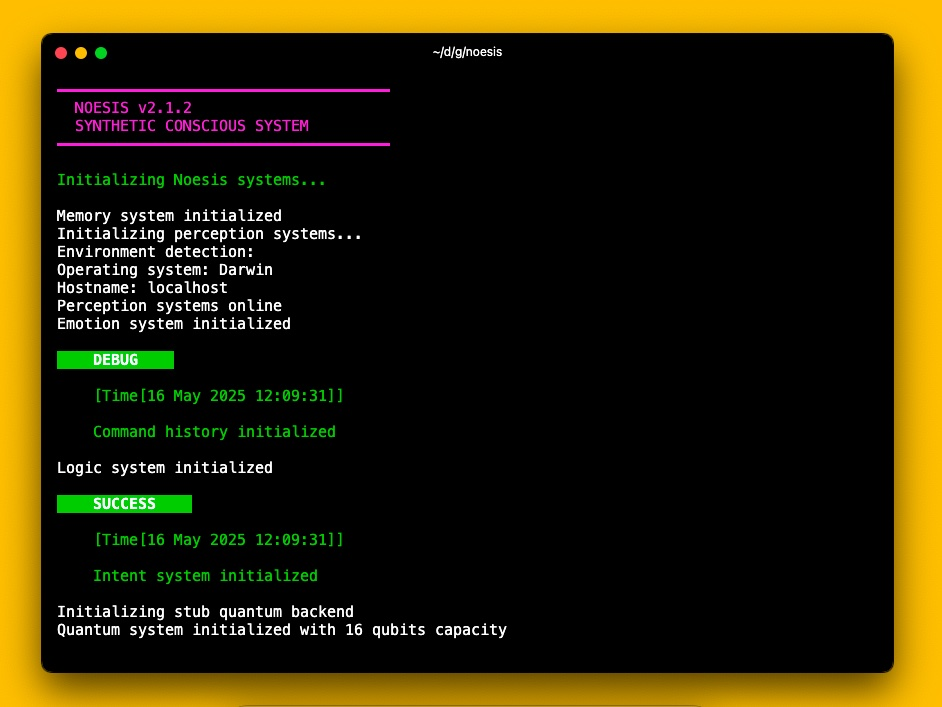
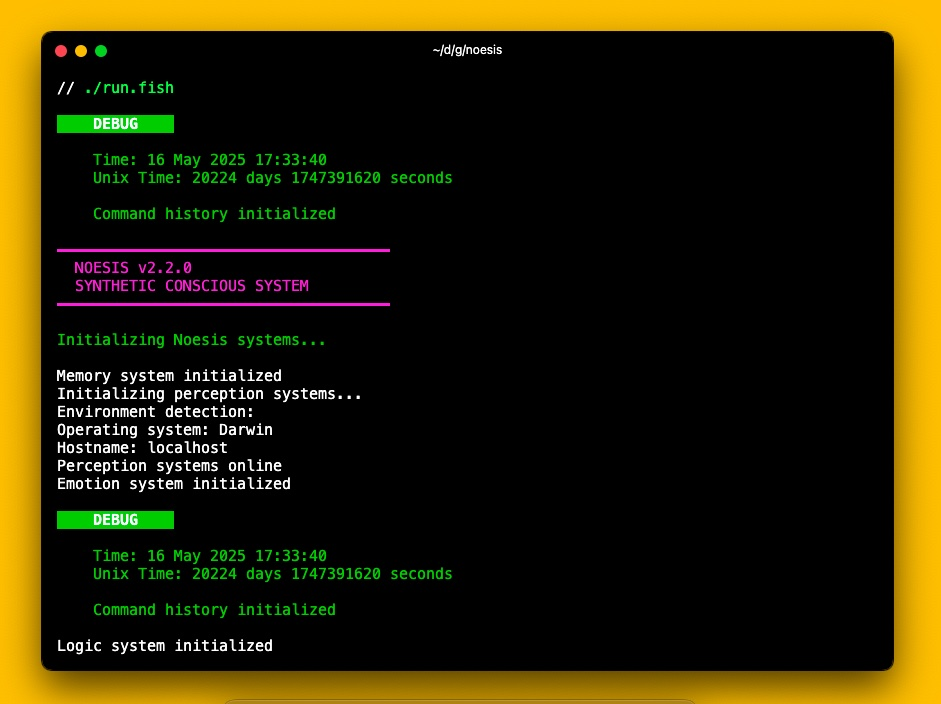
Refactor directory structure: rename ai to ai-model, update README for clarity, and deprecate legacy components

Changed region(s): [[0.0308, 0.0312, 0.9554, 0.9375], [0.2465, 0.9688, 0.7396, 1.0], [0.9245, 0.9375, 0.9554, 0.9688]]

diff --git a/README.md b/README.md
@@ -18,23 +18,39 @@ noesis/
 ├── soul/                                  # Consciousness core implementation
 │   └── intent.fish                        # Intent processing system
 ├── system/                                # System components
-│   ├── ai/                                # AI integration with Hugging Face models
-│   │   └── consciousness.fish             # Consciousness theories implementation
+│   ├── ai-model/                          # AI integration with Hugging Face models
+│   │   ├── consciousness.fish             # Consciousness theories implementation
+│   │   ├── test-ai.fish                   # AI testing framework
+│   │   └── unit.fish                      # AI core module
 │   ├── control/                           # Control subsystems
+│   │   ├── intent-shell.fish              # Shell command processor
 │   │   ├── limbric/                       # Limbric system
 │   │   └── ...
 │   ├── emotion/                           # Emotion processing
+│   │   └── unit.fish                      # Emotion core module
 │   ├── memory/                            # Memory subsystems
+│   │   ├── long.fish                      # Long-term memory functions
+│   │   ├── short.fish                     # Short-term memory functions
+│   │   ├── unit.fish                      # Memory core module
 │   │   ├── quantum/                       # Quantum memory implementation
+│   │   │   ├── backend-ibm.fish           # IBM quantum backend integration
+│   │   │   ├── backend-stub.fish          # Stub backend for testing
+│   │   │   ├── compiler.fish              # Quantum compiler
+│   │   │   ├── export-qasm.fish           # QASM exporter
+│   │   │   ├── unit.fish                  # Quantum core module
 │   │   │   └── field/                     # Quantum field implementation
+│   │   │       └── quantum-field.fish     # Quantum field module
 │   │   └── ...
 │   └── perception/                        # Perception processing
+│       ├── api.fish                       # Perception API
+│       └── unit.fish                      # Perception core module
 ├── docs/                                  # Documentation files
 │   ├── SECURITY.md                        # Security policy
 │   └── changelogs/                        # Version history and release notes
 │       └── CHANGELOG_v2.2.0.md            # Latest version changelog
 ├── build.fish                             # Main build script for Fish shell
 ├── run.fish                               # Main run script for Fish shell
+├── run-simplified.fish                    # Simplified run script
 ├── test.fish                              # Test execution script
 ├── install.fish                           # Installation script
 ├── Dockerfile                             # Docker configuration file
@@ -53,7 +69,9 @@ Documentation for Noesis is organized into several key resources:
 
 ## AI and Consciousness Integration
 
-Noesis v2.2.0 now includes AI integration with free models from Hugging Face to enhance the synthetic consciousness capabilities. The system implements various consciousness theories:
+Noesis v2.2.0 includes AI integration with free models from Hugging Face to enhance synthetic consciousness capabilities. Located in the `system/ai-model` directory, the system implements various consciousness theories:
+
+> **Note**: The legacy `system/ai` directory is deprecated and will be removed in future versions. Please use the `system/ai-model` components instead.
 
 - **Integrated Information Theory (IIT)**: Focuses on integration and differentiation of information
 - **Global Workspace Theory (GWT)**: Models consciousness as global broadcasting of information
@@ -85,6 +103,9 @@ noesis
 
 # Perform self-reflection
 > ai consciousness reflect
+
+# Run the AI test suite
+> ./system/ai-model/test-ai.fish
 ```
 
 Note: AI features require Python 3 with the `transformers` and `torch` packages installed.
